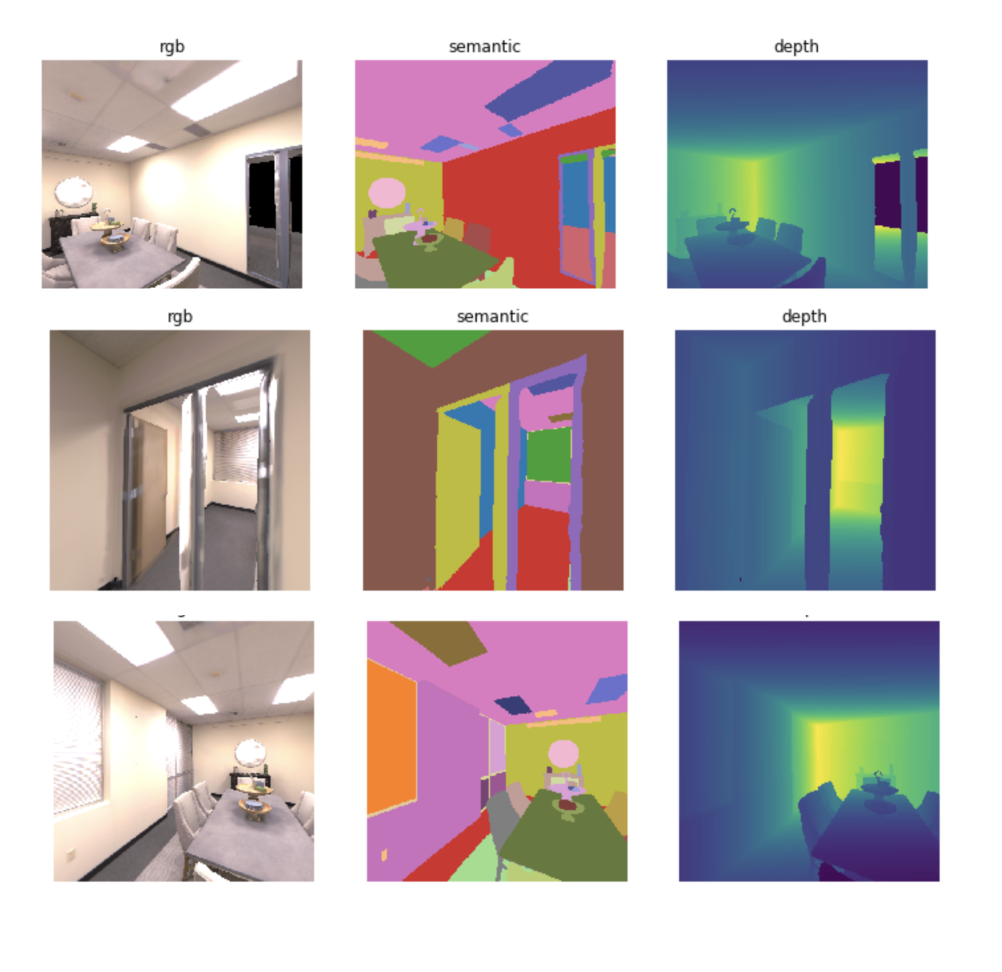
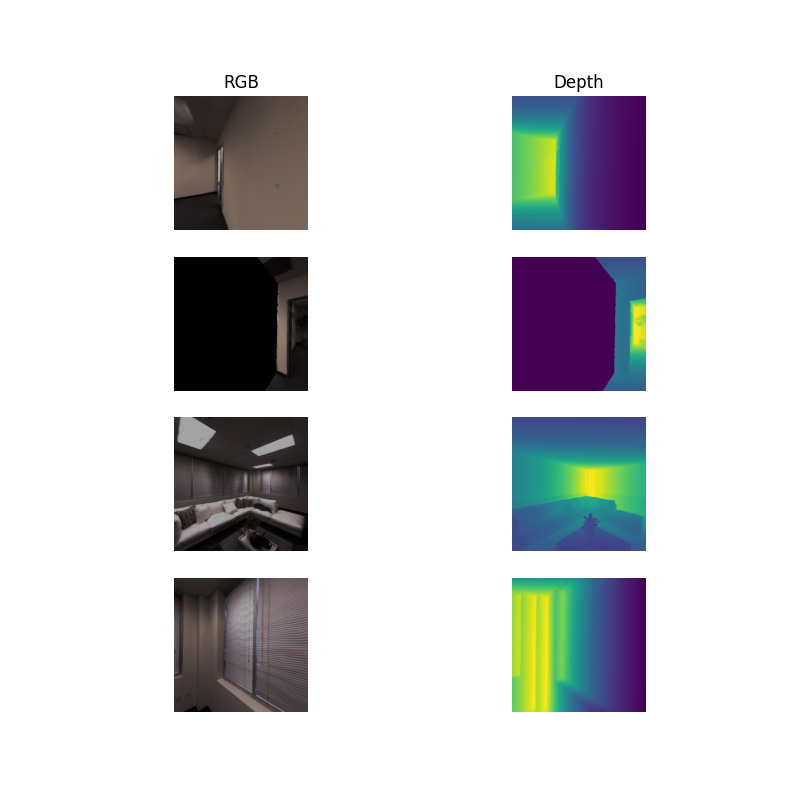
updated extractor docs to clarify confusion about semantic scenes

diff --git a/docs/pages/image-extractor.rst b/docs/pages/image-extractor.rst
@@ -68,7 +68,7 @@ The ImageExtractor uses an instance of habitat_sim.Simulator on the backend to e
 `Basic Usage`_
 --------------
 
-Once the user instantiates an ImageExtractor object, they can index into it like a normal python list, or use slicing. Indexing returns a dictionary containing the images specified by the 'output' argument to the ImageExtractor constructor.
+Once the user instantiates an ImageExtractor object, they can index into it like a normal python list, or use slicing. Indexing returns a dictionary containing the images specified by the 'output' argument to the ImageExtractor constructor. All datasets support the use of "rgba" and "depth" outputs. For semantic outputs, you should use a dataset that supports semantic annotation (e.g. the Matterport3D dataset).
 
 
 .. code:: py
@@ -80,29 +80,32 @@ Once the user instantiates an ImageExtractor object, they can index into it like
 
 
     # For viewing the extractor output
-    def display_sample(sample):
-        img = sample["rgba"]
-        depth = sample["depth"]
-        semantic = sample["semantic"]
+    def display_samples(samples):
+        fig, axs = plt.subplots(len(samples), 2)
+        fig.set_size_inches(8, 8)
+        for i, sample in enumerate(samples):
+            img = sample["rgba"]
+            depth = sample["depth"]
 
-        arr = [img, depth, semantic]
-        titles = ["rgba", "depth", "semantic"]
-        plt.figure(figsize=(12, 8))
-        for i, data in enumerate(arr):
-            ax = plt.subplot(1, 3, i + 1)
-            ax.axis("off")
-            ax.set_title(titles[i])
-            plt.imshow(data)
+            axs[i, 0].axis('off')
+            axs[i, 0].imshow(img)
+            axs[i, 1].axis('off')
+            axs[i, 1].imshow(depth)
+
+            if i == 0:
+                axs[i, 0].set_title('RGB')
+                axs[i, 1].set_title('Depth')
 
         plt.show()
 
 
+    # Replace this with the path to your scene
     scene_filepath = "data/scene_datasets/habitat-test-scenes/apartment_1.glb"
 
     extractor = ImageExtractor(
         scene_filepath,
         img_size=(512, 512),
-        output=["rgba", "depth", "semantic"],
+        output=["rgba", "depth"], # "semantic" can also be added for scenes that contain semantic annotations, e.g. Matterport3D dataset
     )
 
     # Use the list of train outputs instead of the default, which is the full list
@@ -110,12 +113,11 @@ Once the user instantiates an ImageExtractor object, they can index into it like
     extractor.set_mode('train')
 
     # Index in to the extractor like a normal python list
-    sample = extractor[0]
+    _ = extractor[0]
 
     # Or use slicing
-    samples = extractor[1:4]
-    for sample in samples:
-        display_sample(sample)
+    samples = extractor[:4]
+    display_samples(sample)
 
     # Close the extractor so we can instantiate another one later
     # (see close method for detailed explanation)
